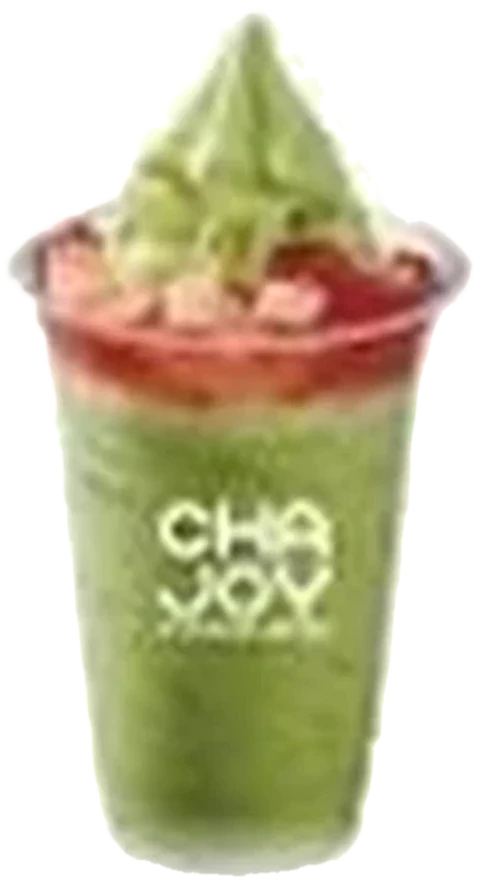
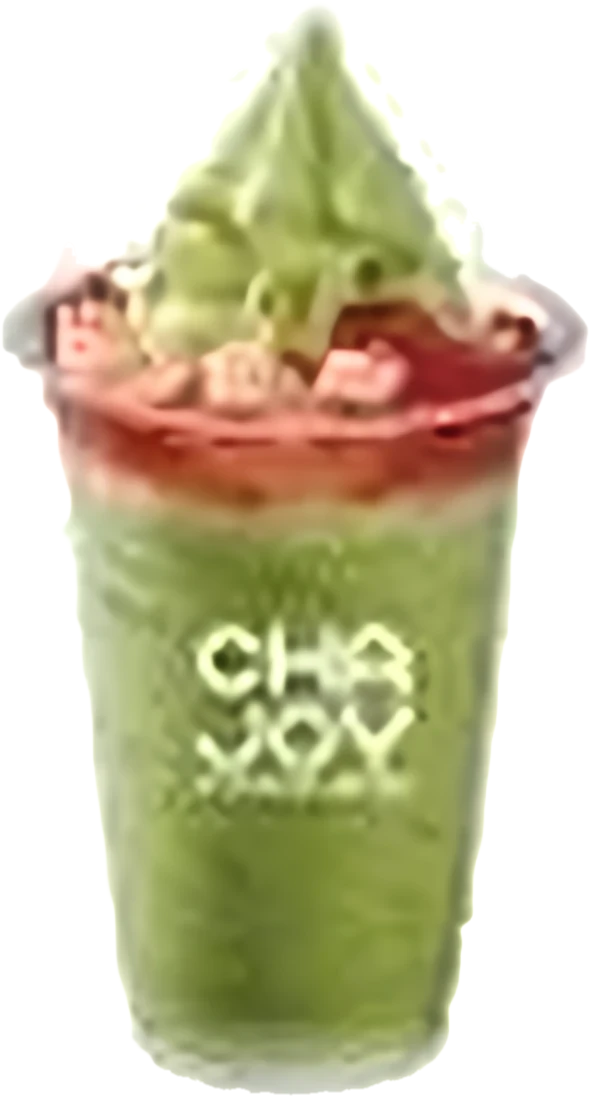
Sharper product photography from CHAJOY's official posters
- Hero, matcha banner and key cards use products cut from CHAJOY's
  high-resolution Facebook posters (public/images/cutouts/hq), plus the
  penguin mascot
- Menu-board photos upscaled 4x (Swin2SR) before cutting out, so cards and
  product pages are crisp
- Feature section and social strip use full-size photos from the official
  Facebook page (public/images/social)
- Document the cut-out pipeline in scripts/cutouts

diff --git a/src/components/home/HomeSections.tsx b/src/components/home/HomeSections.tsx
@@ -38,9 +38,9 @@ function PhotoStack({ shots, className = "" }: { shots: Shot[]; className?: stri
 
 export function HeroBanner({ itemCount, copy }: { itemCount: number; copy: { headline: string; headlineAccent: string; subhead: string } }) {
   const shots: Shot[] = [
-    { src: "/images/cutouts/matcha-oreo-shake-milkshake.webp", alt: "CHAJOY Matcha Oreo Shake", h: "56%", x: "24%", rotate: -6 },
-    { src: "/images/cutouts/boba-milk-tea.webp", alt: "CHAJOY Boba Milk Tea", h: "78%", x: "50%", z: 3 },
-    { src: "/images/cutouts/ice-cream.webp", alt: "CHAJOY original and matcha soft serve cones", h: "58%", x: "77%", rotate: 5 },
+    { src: "/images/cutouts/hq/chocolate-oreo-crumb-sundae--original.webp", alt: "CHAJOY Chocolate Oreo Crumb Sundae", h: "74%", x: "21%", rotate: -7 },
+    { src: "/images/cutouts/hq/boba-milk-tea.webp", alt: "CHAJOY Boba Milk Tea", h: "82%", x: "50%", z: 3, rotate: 4 },
+    { src: "/images/cutouts/hq/strawberry-sundae--matcha.webp", alt: "CHAJOY matcha Strawberry Sundae", h: "72%", x: "80%", rotate: 8 },
   ];
   return (
     <section className={`${wrap} pt-4 sm:pt-5`}>
@@ -56,7 +56,10 @@ export function HeroBanner({ itemCount, copy }: { itemCount: number; copy: { hea
           </PillLink>
         </div>
 
-        <PhotoStack shots={shots} className="relative h-[340px] sm:h-[420px] lg:absolute lg:inset-y-0 lg:left-[40%] lg:right-[15%] lg:h-auto" />
+        <PhotoStack shots={shots} className="relative h-[340px] sm:h-[420px] lg:absolute lg:inset-y-0 lg:left-[38%] lg:right-[14%] lg:h-auto" />
+        <div className="pointer-events-none absolute bottom-[4%] left-[2%] z-20 h-[24%] w-[22%] sm:left-[6%] lg:bottom-[5%] lg:left-[29%] lg:h-[28%] lg:w-[11%]">
+          <Image src="/images/cutouts/hq/penguin.webp" alt="CHAJOY penguin mascot" fill sizes="160px" className="object-contain drop-shadow-[0_12px_14px_rgba(0,0,0,0.2)]" />
+        </div>
 
         <div className="pointer-events-none absolute right-8 top-10 z-10 hidden flex-col items-center text-center lg:flex">
           <span className="relative block size-[74px] overflow-hidden rounded-full ring-4 ring-white/70">
@@ -123,22 +126,16 @@ export function ToppingsWave({ price }: { price: string }) {
 
 export function JustRight() {
   const points = ["Choose 50%, 75% or 100% sugar", "Less or normal ice — or order milk teas hot", "Add brown pearl, pudding, coconut jelly, crystal ball or crushed cone"];
-  const shots: Shot[] = [
-    { src: "/images/cutouts/guava-iced-lemon-green-tea.webp", alt: "CHAJOY Guava Iced Lemon Green Tea", h: "70%", x: "27%", rotate: -5 },
-    { src: "/images/cutouts/strawberry-and-lemon-tea.webp", alt: "CHAJOY Strawberry and Lemon Tea", h: "86%", x: "50%", z: 3 },
-    { src: "/images/cutouts/jasmine-peach-green-tea.webp", alt: "CHAJOY Jasmine Peach Green Tea", h: "70%", x: "73%", rotate: 5 },
-  ];
   return (
     <section className={`${wrap} grid items-center gap-10 pb-20 sm:pb-28 lg:grid-cols-[1.05fr_1fr] lg:gap-20`} aria-labelledby="right-title">
-      <div className="relative aspect-[4/3] overflow-hidden rounded-[18px] bg-[linear-gradient(160deg,#c6f1ee_0%,#9fe0da_100%)]">
-        <div aria-hidden className="absolute left-1/2 top-[40%] size-[60%] -translate-x-1/2 -translate-y-1/2 rounded-full bg-white/40 blur-3xl" />
-        <PhotoStack shots={shots} className="absolute inset-0" />
+      <div className="relative aspect-[4/3] overflow-hidden rounded-[18px] bg-[#b1eae6]">
+        <Image src="/images/social/boba-on-table.webp" alt="A CHAJOY Boba Milk Tea on a café table, being photographed on a phone" fill sizes="(min-width:1024px) 640px, 100vw" className="object-cover" />
       </div>
       <div>
         <h2 id="right-title" className="font-display text-[40px] leading-[1.05] text-ink sm:text-[50px]">
-          Sip <em>fruit tea</em>
+          Your next <em>boba</em>
           <br />
-          your way, every time
+          obsession, made just right
         </h2>
         <p className="mt-5 max-w-md text-[15px] leading-relaxed text-ink/75">Every CHAJOY drink is made to order, the way you like it — straight from our menu board.</p>
         <ul className="mt-7 space-y-4">
@@ -161,8 +158,8 @@ export function JustRight() {
 export function MatchaBanner({ fromPrice }: { fromPrice: string }) {
   const shots: Shot[] = [
     { src: "/images/cutouts/brown-sugar-boba-sundae--matcha.webp", alt: "CHAJOY matcha Brown Sugar Boba Sundae", h: "66%", x: "24%", rotate: -5 },
-    { src: "/images/cutouts/matcha-oreo-shake-milkshake.webp", alt: "CHAJOY Matcha Oreo Shake", h: "80%", x: "50%", z: 3 },
-    { src: "/images/cutouts/chocolate-oreo-crumb-sundae--matcha.webp", alt: "CHAJOY matcha Chocolate Oreo Crumb Sundae", h: "66%", x: "76%", rotate: 5 },
+    { src: "/images/cutouts/hq/strawberry-sundae--matcha.webp", alt: "CHAJOY matcha Strawberry Sundae", h: "84%", x: "50%", z: 3, rotate: 4 },
+    { src: "/images/cutouts/matcha-oreo-shake-milkshake.webp", alt: "CHAJOY Matcha Oreo Shake", h: "66%", x: "77%", rotate: 6 },
   ];
   return (
     <section className={`${wrap} pb-20 sm:pb-28`} aria-labelledby="indulge-title">
@@ -202,13 +199,14 @@ export function MatchaBanner({ fromPrice }: { fromPrice: string }) {
 // ------------------------------------------------------------------ "Sippin' on social"
 
 const SOCIAL = [
-  { src: "/images/stores/badda.webp", caption: "CHAJOY Badda", alt: "CHAJOY Badda storefront with a green balloon arch" },
-  { src: "/images/brand/three-cups.webp", caption: "On the counter", alt: "Three CHAJOY desserts" },
-  { src: "/images/brand/cone-in-store.webp", caption: "Cone o'clock", alt: "A CHAJOY ice cream cone held up in store" },
-  { src: "/images/stores/bonasree.webp", caption: "CHAJOY Bonasree", alt: "CHAJOY Bonasree shopfront" },
-  { src: "/images/brand/store-interior.webp", caption: "Take a seat", alt: "CHAJOY seating area" },
-  { src: "/images/stores/rampura.webp", caption: "CHAJOY Rampura", alt: "CHAJOY Rampura shopfront" },
-  { src: "/images/brand/matcha-new-product.webp", caption: "New: matcha", alt: "CHAJOY matcha range poster" },
+  { src: "/images/social/drink-at-counter.webp", caption: "Fresh off the counter", alt: "A CHAJOY fruit tea held up at the counter" },
+  { src: "/images/social/blueberry-and-lemon.webp", caption: "Sip the good vibes", alt: "CHAJOY Blueberry Milkshake and Lemon Black Tea" },
+  { src: "/images/social/storefront-corner.webp", caption: "CHAJOY Mohammadpur", alt: "CHAJOY corner storefront in Mohammadpur" },
+  { src: "/images/social/seating.webp", caption: "Grab a seat", alt: "CHAJOY seating with green chairs and a checked floor" },
+  { src: "/images/social/lounge.webp", caption: "Sip, smile, repeat", alt: "CHAJOY lounge with a green sofa" },
+  { src: "/images/social/storefront-stairs.webp", caption: "Share cha, share joy", alt: "CHAJOY storefront with the penguin sign" },
+  { src: "/images/social/interior-logo.webp", caption: "Hello from the penguin", alt: "CHAJOY interior with the penguin logo" },
+  { src: "/images/social/takeaway-bag.webp", caption: "To go", alt: "A CHAJOY takeaway bag on the counter" },
 ];
 
 export function SocialStrip({ instagram }: { instagram: string }) {

diff --git a/src/lib/cutouts.ts b/src/lib/cutouts.ts
@@ -49,14 +49,19 @@ const CUTOUTS = new Set([
   "topping-pudding",
 ]);
 
+// Sharper cut-outs taken from CHAJOY's official high-resolution posters
+// (facebook.com/ChaJoy-Bangladesh). Preferred over the menu-board crops.
+const HQ = new Set(["boba-milk-tea", "chocolate-oreo-crumb-sundae--original", "strawberry-sundae--matcha"]);
+
+export function cutoutFor(name: string): string | null {
+  if (HQ.has(name)) return `/images/cutouts/hq/${name}.webp`;
+  return CUTOUTS.has(name) ? `/images/cutouts/${name}.webp` : null;
+}
+
 /** Cut-out version of an official product photo URL, or null if there isn't one. */
 export function cutoutOf(url: string | null | undefined): string | null {
   const m = url?.match(/^\/images\/products\/([a-z0-9-]+)\.webp$/);
-  return m && CUTOUTS.has(m[1]) ? `/images/cutouts/${m[1]}.webp` : null;
-}
-
-export function cutoutFor(name: string): string | null {
-  return CUTOUTS.has(name) ? `/images/cutouts/${name}.webp` : null;
+  return m ? cutoutFor(m[1]) : null;
 }
 
 const FALLBACK: [string, string] = ["#fdf3c4", "#f9dc5c"];

diff --git a/scripts/cutouts/README.md b/scripts/cutouts/README.md
@@ -1,0 +1,24 @@
+# Product cut-outs
+
+Official CHAJOY photos with their backgrounds removed, so the storefront can
+place them on colour backdrops (`public/images/cutouts`). The pixels are the
+original photos; nothing is generated.
+
+Sources:
+- `public/images/products/*` – crops of the official menu board. These are
+  small (~480 px tall), so they were upscaled 4× with Swin2SR
+  (`upscale.mjs`, model `Xenova/swin2SR-realworld-sr-x4-64-bsrgan-psnr`)
+  before cutting out.
+- `public/images/cutouts/hq/*` – products cut from CHAJOY's own
+  high-resolution posters on its public Facebook page
+  (`crop-cut.mjs`, crop boxes in a JSON jobs file).
+
+Pipeline (run with `@huggingface/transformers` and `sharp` installed in a
+scratch folder – they are not app dependencies):
+
+    node upscale.mjs <products dir> <up dir> [names,comma,separated]
+    HEIGHT=1200 node rmbg.mjs <up dir> <out dir> "" 24        # RMBG-1.4 + border clean-up
+    node whiten.mjs <out dir> <final dir>                      # strip white leftovers (drinks only)
+
+`GRAD=1` on `rmbg.mjs` also removes pale menu-green leftovers; use it only on
+photos without pale green product colours (not on matcha or ice cream).
